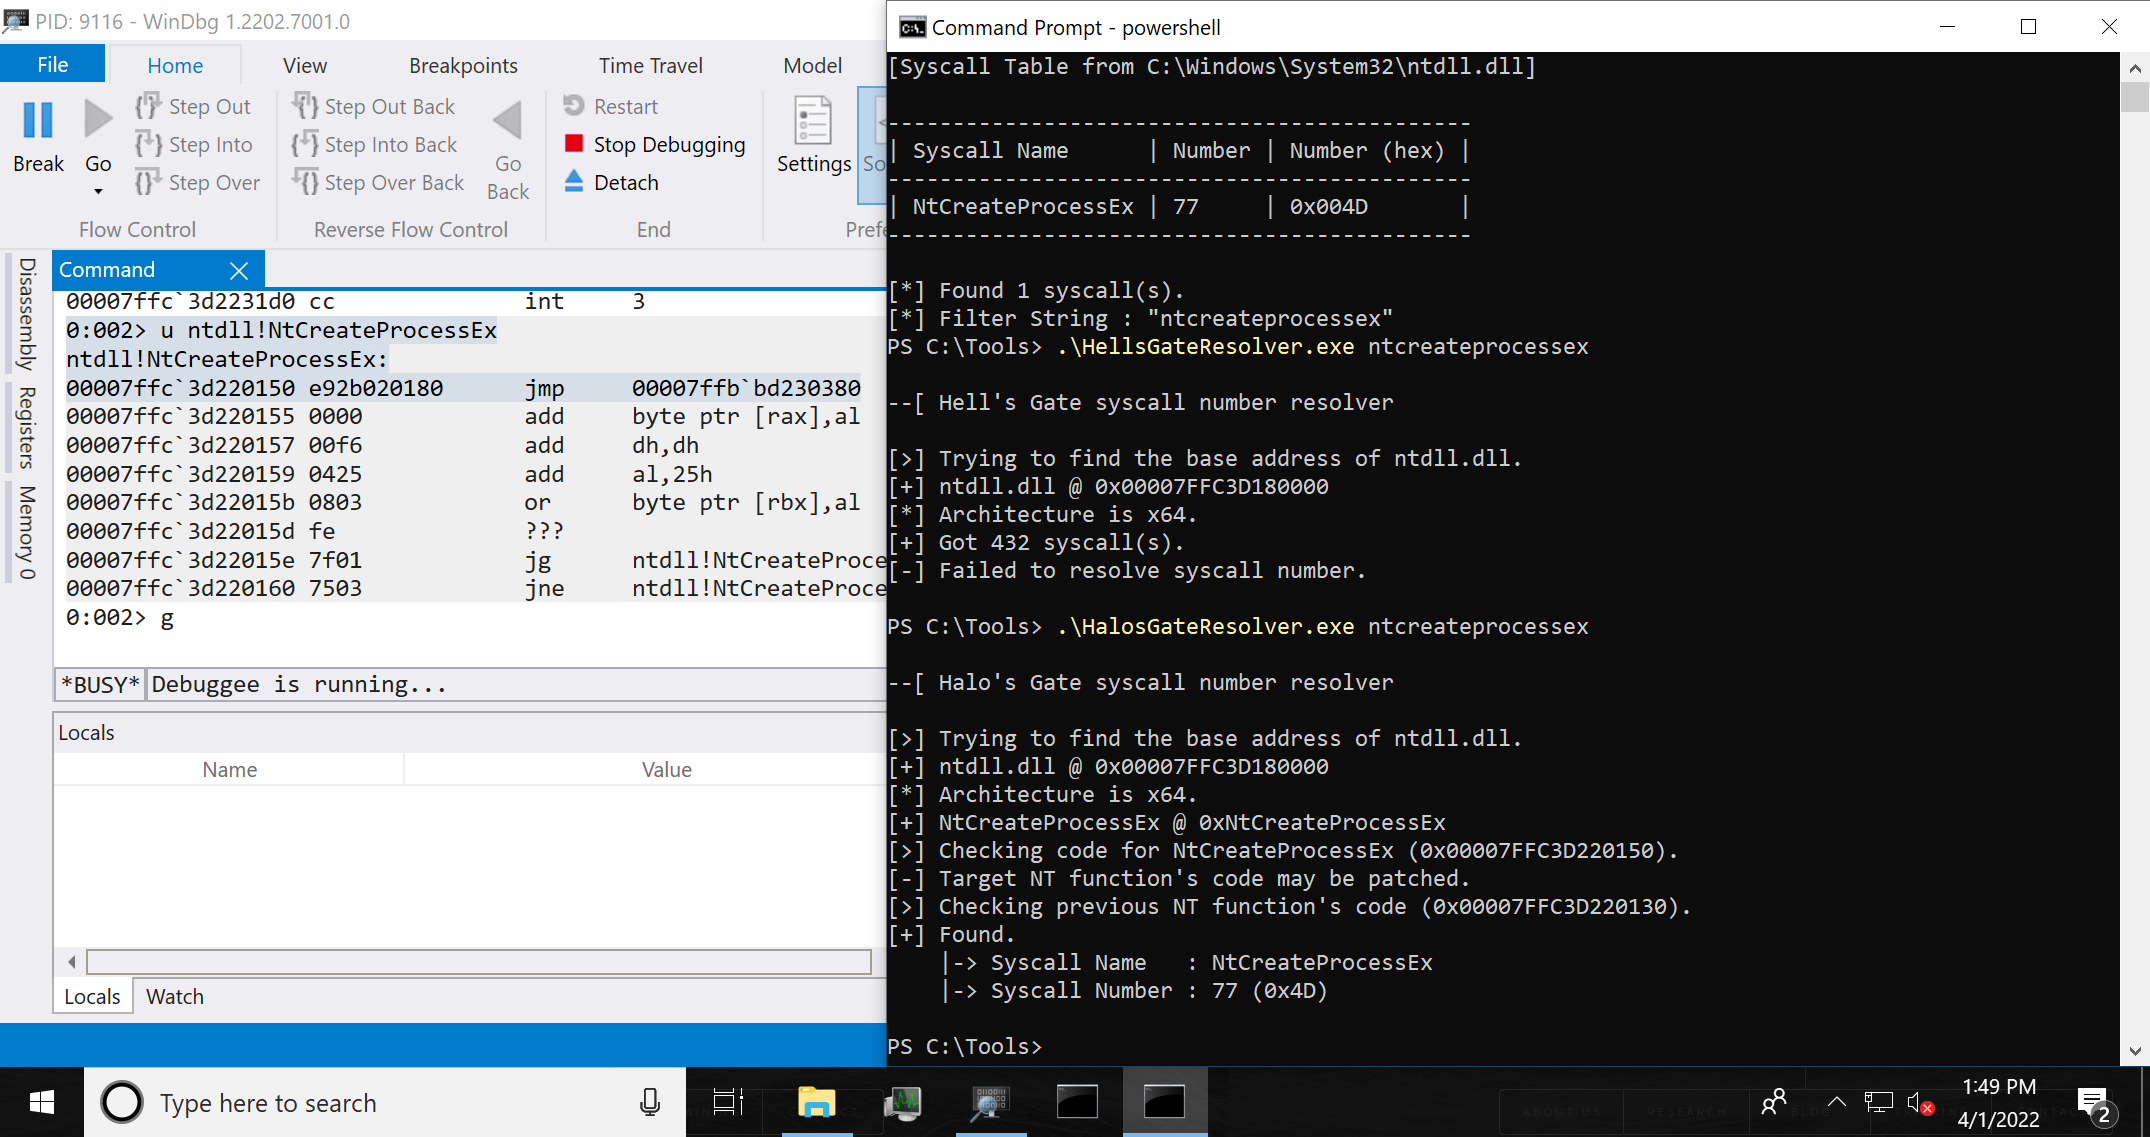
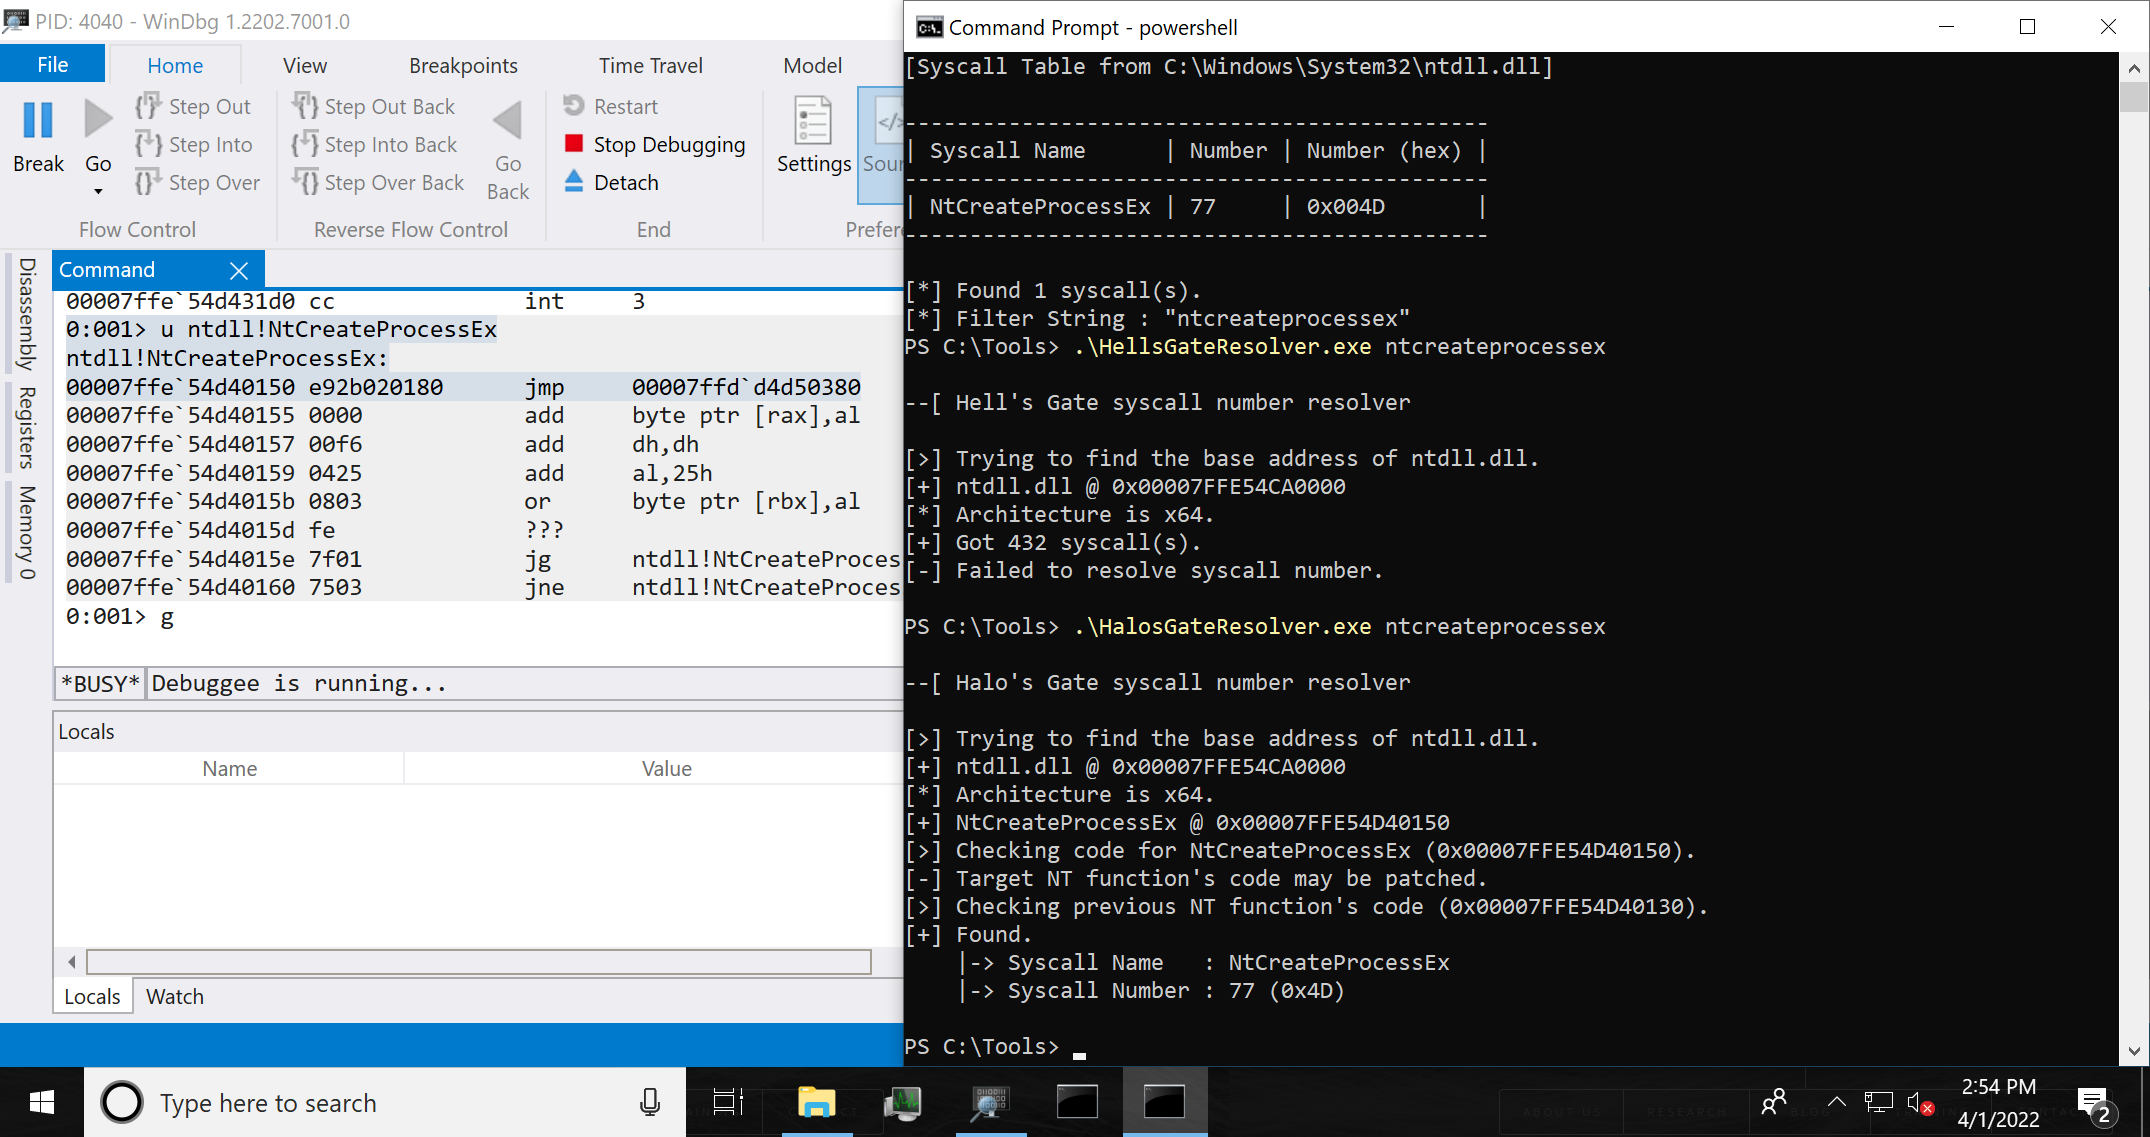
Fixed HalosGateResolver output and screenshot

diff --git a/SyscallResolvers/HalosGateResolver/Library/HalosGate.cs b/SyscallResolvers/HalosGateResolver/Library/HalosGate.cs
@@ -588,9 +588,9 @@ namespace HalosGateResolver.Library
                     pBaseAddress = entry.Value;
 
                     if (Environment.Is64BitOperatingSystem)
-                        Console.WriteLine("[+] {0} @ 0x{0}", syscallName, pBaseAddress.ToString("X16"));
+                        Console.WriteLine("[+] {0} @ 0x{1}", syscallName, pBaseAddress.ToString("X16"));
                     else
-                        Console.WriteLine("[+] {0} @ 0x{0}", syscallName, pBaseAddress.ToString("X8"));
+                        Console.WriteLine("[+] {0} @ 0x{1}", syscallName, pBaseAddress.ToString("X8"));
                 }
             }
 
